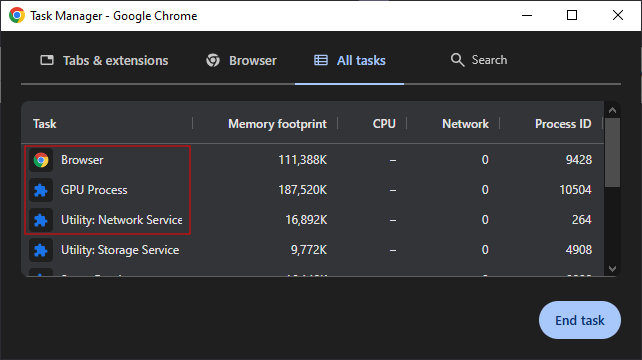
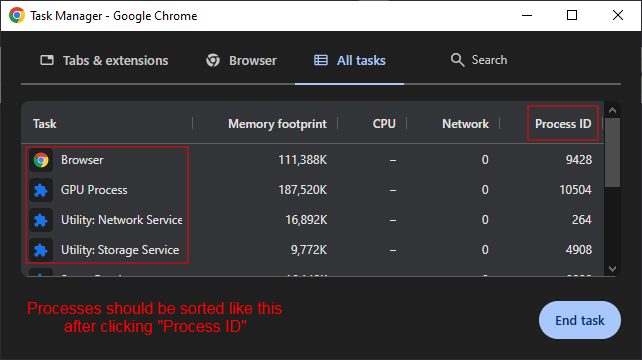
redo step 3

diff --git a/deservice/index.html b/deservice/index.html
@@ -12,13 +12,13 @@
 
         <h1>History</h1>
 
-        <p>Since around February of this year, I've been looking for ways to disable Lightspeed on my school Chromebooks ever since the patch of Blobby-Boi's LightSPED Killer Agent. I've really only tried one method: flooding the filter with lots of spam.</p>
+        <p>Since around February of this year, I've been looking for ways to disable Lightspeed on my school Chromebooks ever since the patch of Blobby-Boi's LightSPED Killer Agent. I've only tried one method: flooding the filter with lots of spam.</p>
         <p>That kind of worked, but I didn't want to make my Chromebook slower in turn for a somewhat working bypass.</p>
 
         <br>
 
         <p>However, in March, I've found an exploit on complete accident (which is this one). I wanted to share the exploit with a few of my classmates, but unfortunately I didn't remember the exploit well enough, and every attempt proved futile.</p>
-        <p>Fast forward a couple of days, and I've successfully replicated the exploit. I told one classmate about it, then they've tested it and it worked! I shared this exploit with a couple other classmates, and now I'm here to share it to you as well.</p>
+        <p>Fast forward a couple of days, and I've successfully replicated the exploit. I told one classmate how to do it, then they've tested it and it worked! I shared this exploit with a couple other classmates, and now I'm here to share it to you as well.</p>
         <br>
         <p class="important">Before abusing this exploit, I advise you, the user, to not use this exploit with malice. It's not on me (Thyrocytes) if you ever get in trouble abusing this exploit.</p>
         
@@ -40,7 +40,7 @@
 
         <br>
 
-        <h3>3. Click "Process ID". Network Service should appear third, below GPU Process, or somewhere near it.</h3>
+        <h3>3. Click "Process ID". Network Service should appear third, below GPU Process, or somewhere near it. Repeat this step if the processes are sorted the wrong way.</h3>
         <img src="step3.png">
 
         <br>
@@ -64,5 +64,7 @@
         <br>
 
         <h3>8 (Optional, but is greatly recommended). Side-screen the task manager for around a minute, then hunt for and kill any processes named "Data Decoder Service" and "Unzip Service" to prevent more extensions from being downloaded.</h3>
+    
+        <br>
     </body>
 </html>

diff --git a/style.css b/style.css
@@ -21,11 +21,12 @@ body * {
     margin: 2px;
     text-align: center;
 }
+
 img {
     display: block;
     margin-left: auto;
     margin-right: auto;
-    
+
     transform: scale(0.75);
 }
 